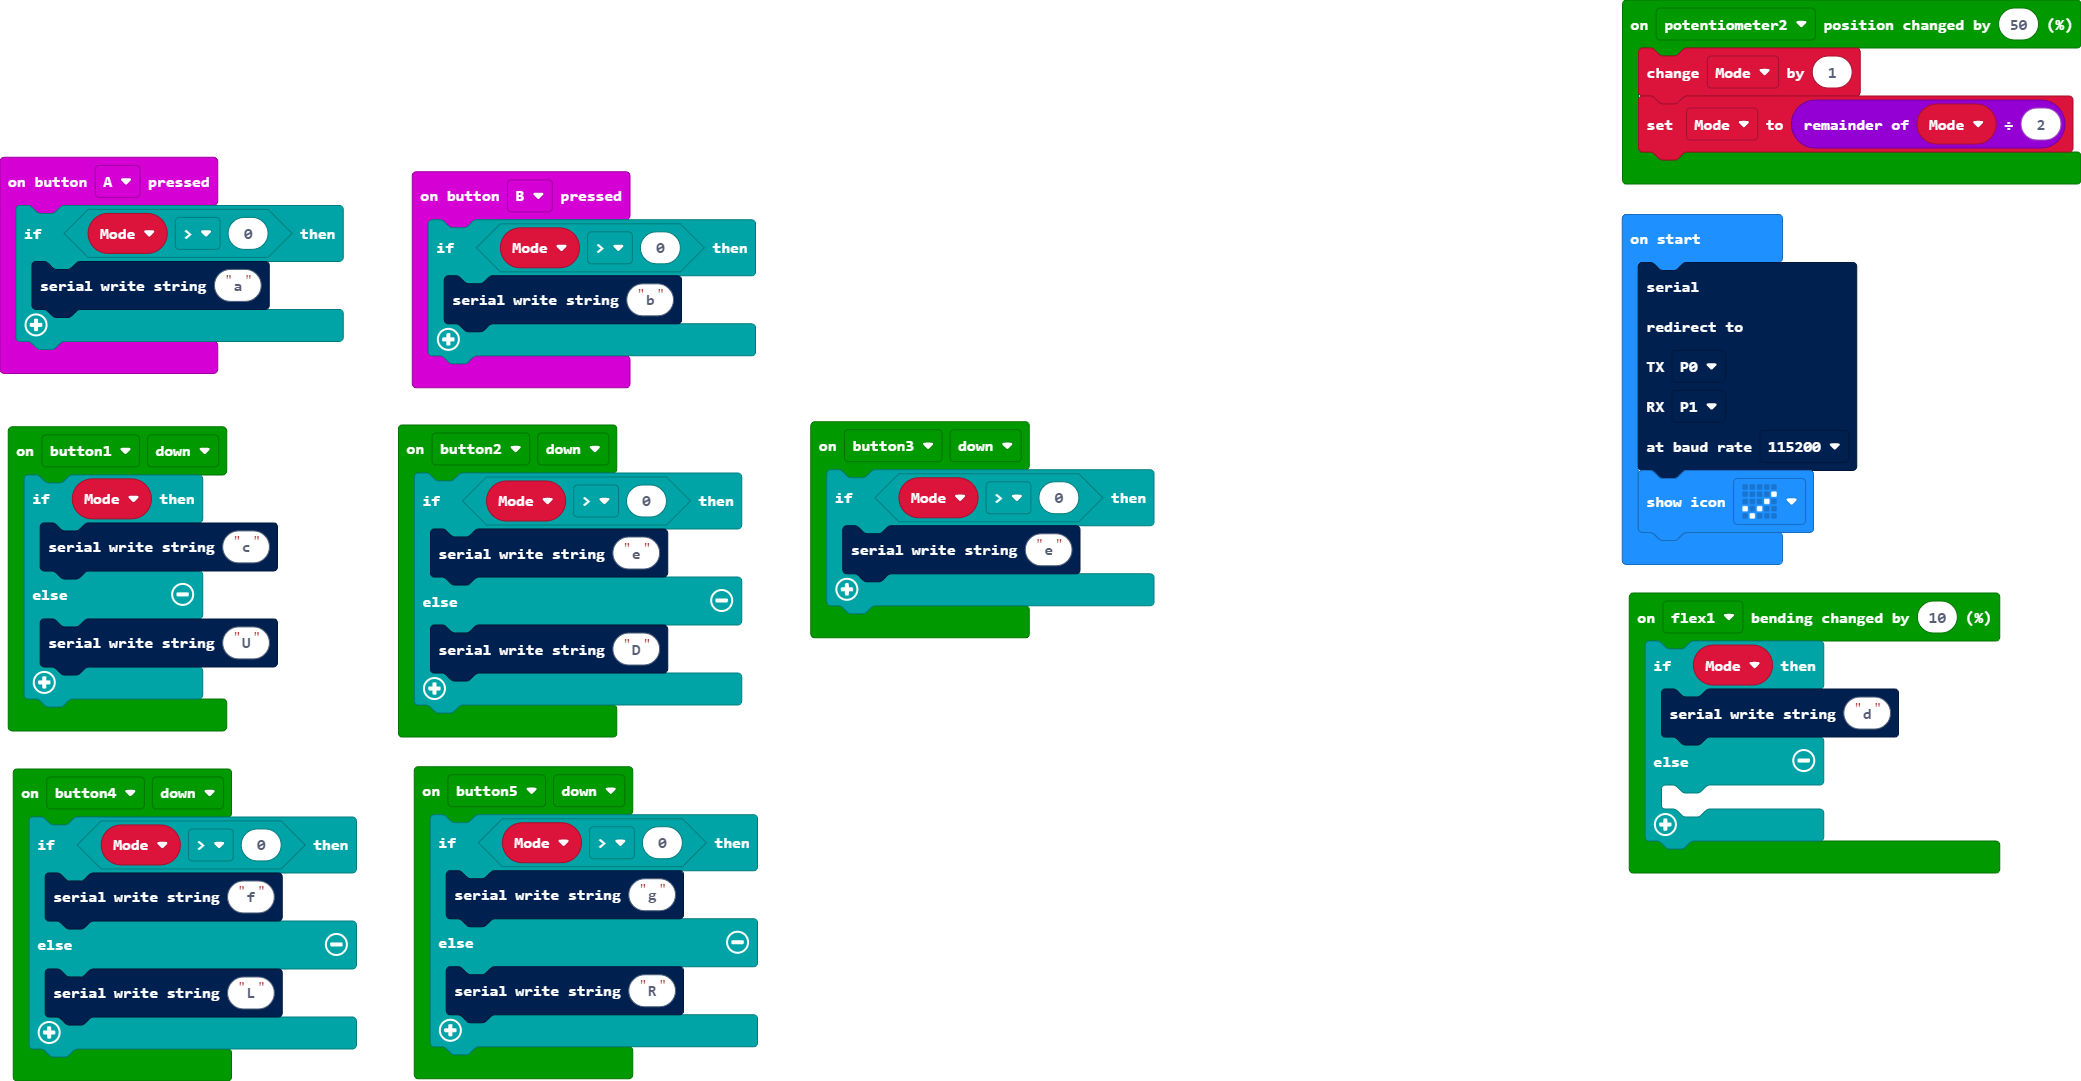
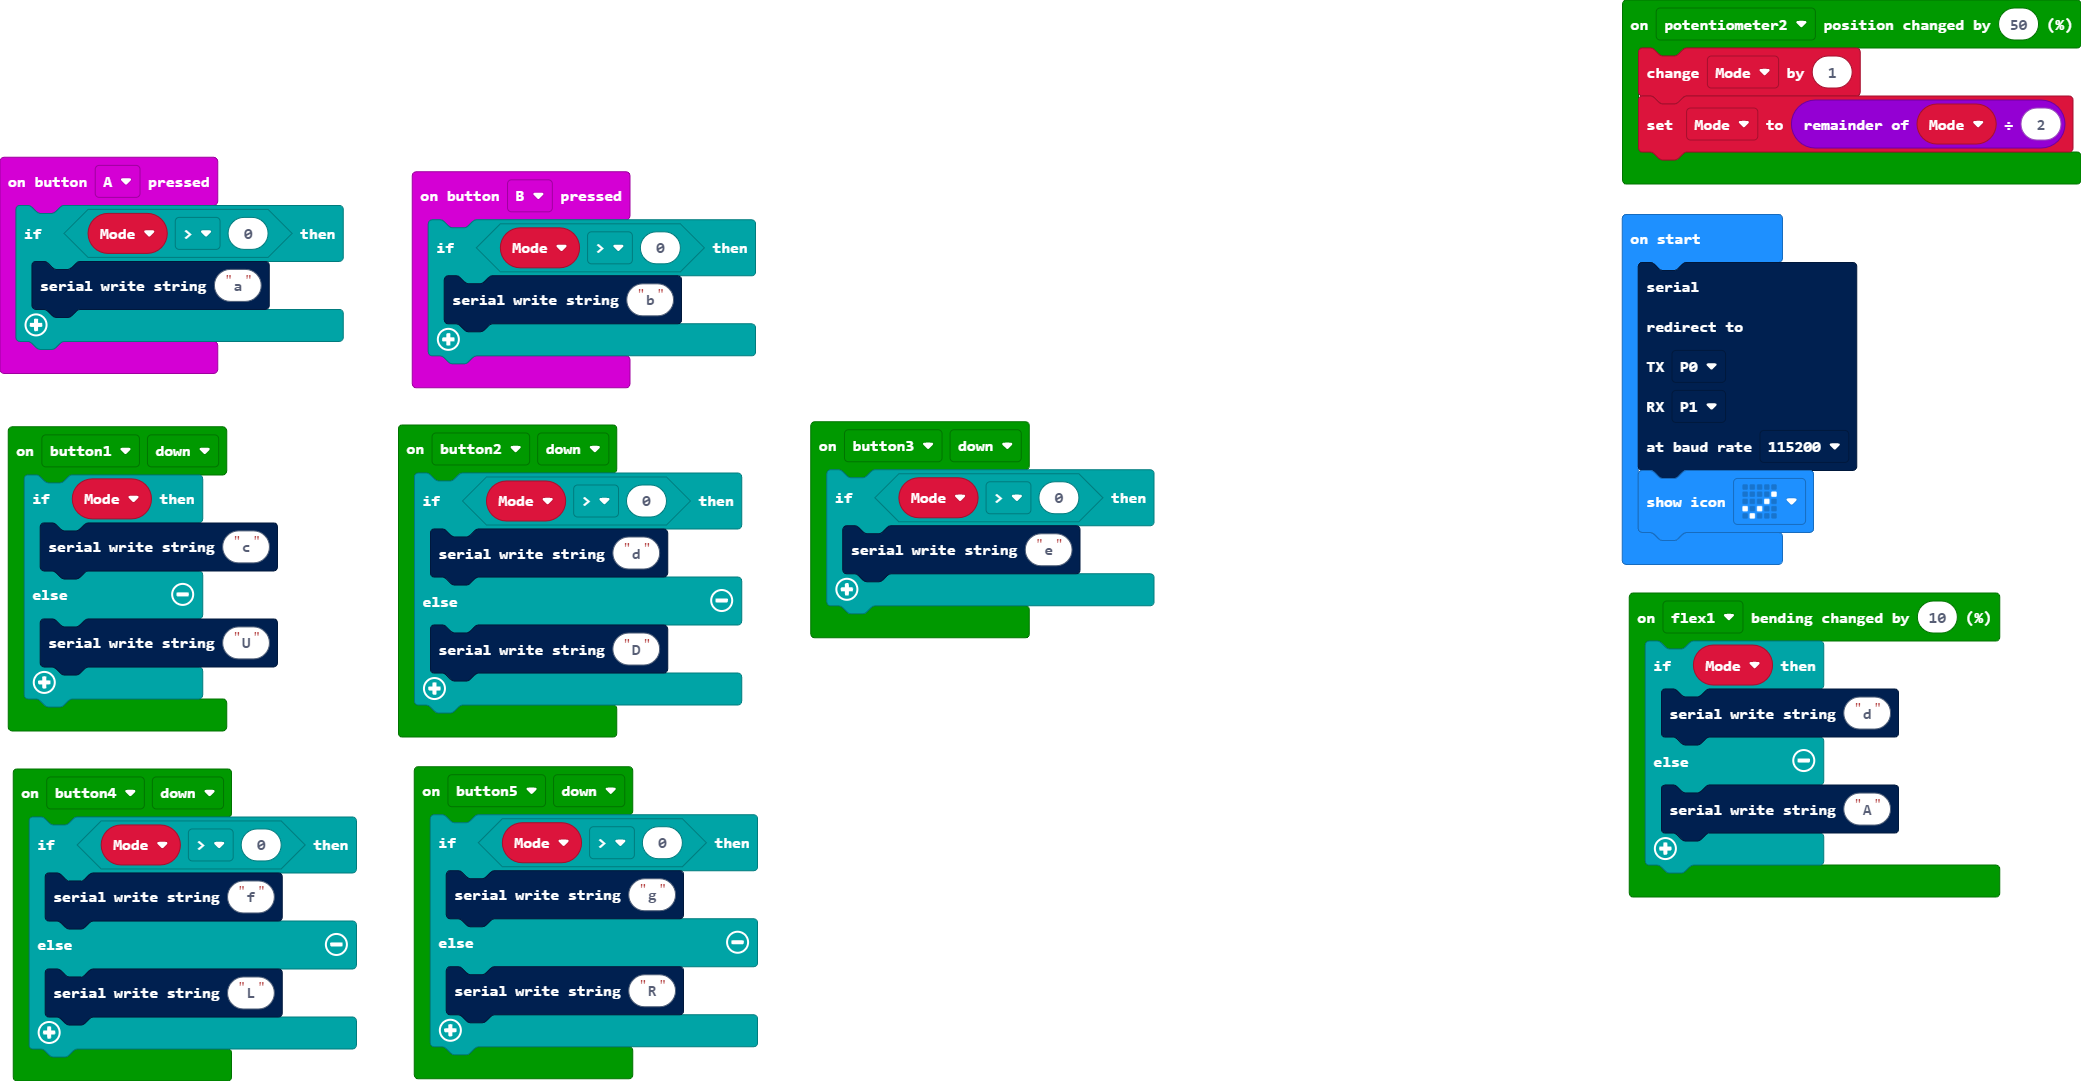
ok

Changed region(s): [[0.7809, 0.7021, 0.9683, 0.8548]]

diff --git a/main.ts b/main.ts
@@ -20,7 +20,7 @@ modules.flex1.onBendingChangedBy(10, function () {
     if (Mode) {
         serial.writeString("d")
     } else {
-    	
+        serial.writeString("A")
     }
 })
 myModules.button3.onEvent(jacdac.ButtonEvent.Down, function () {
@@ -47,7 +47,7 @@ input.onButtonPressed(Button.B, function () {
 })
 modules.button2.onEvent(jacdac.ButtonEvent.Down, function () {
     if (Mode > 0) {
-        serial.writeString("e")
+        serial.writeString("d")
     } else {
         serial.writeString("D")
     }
